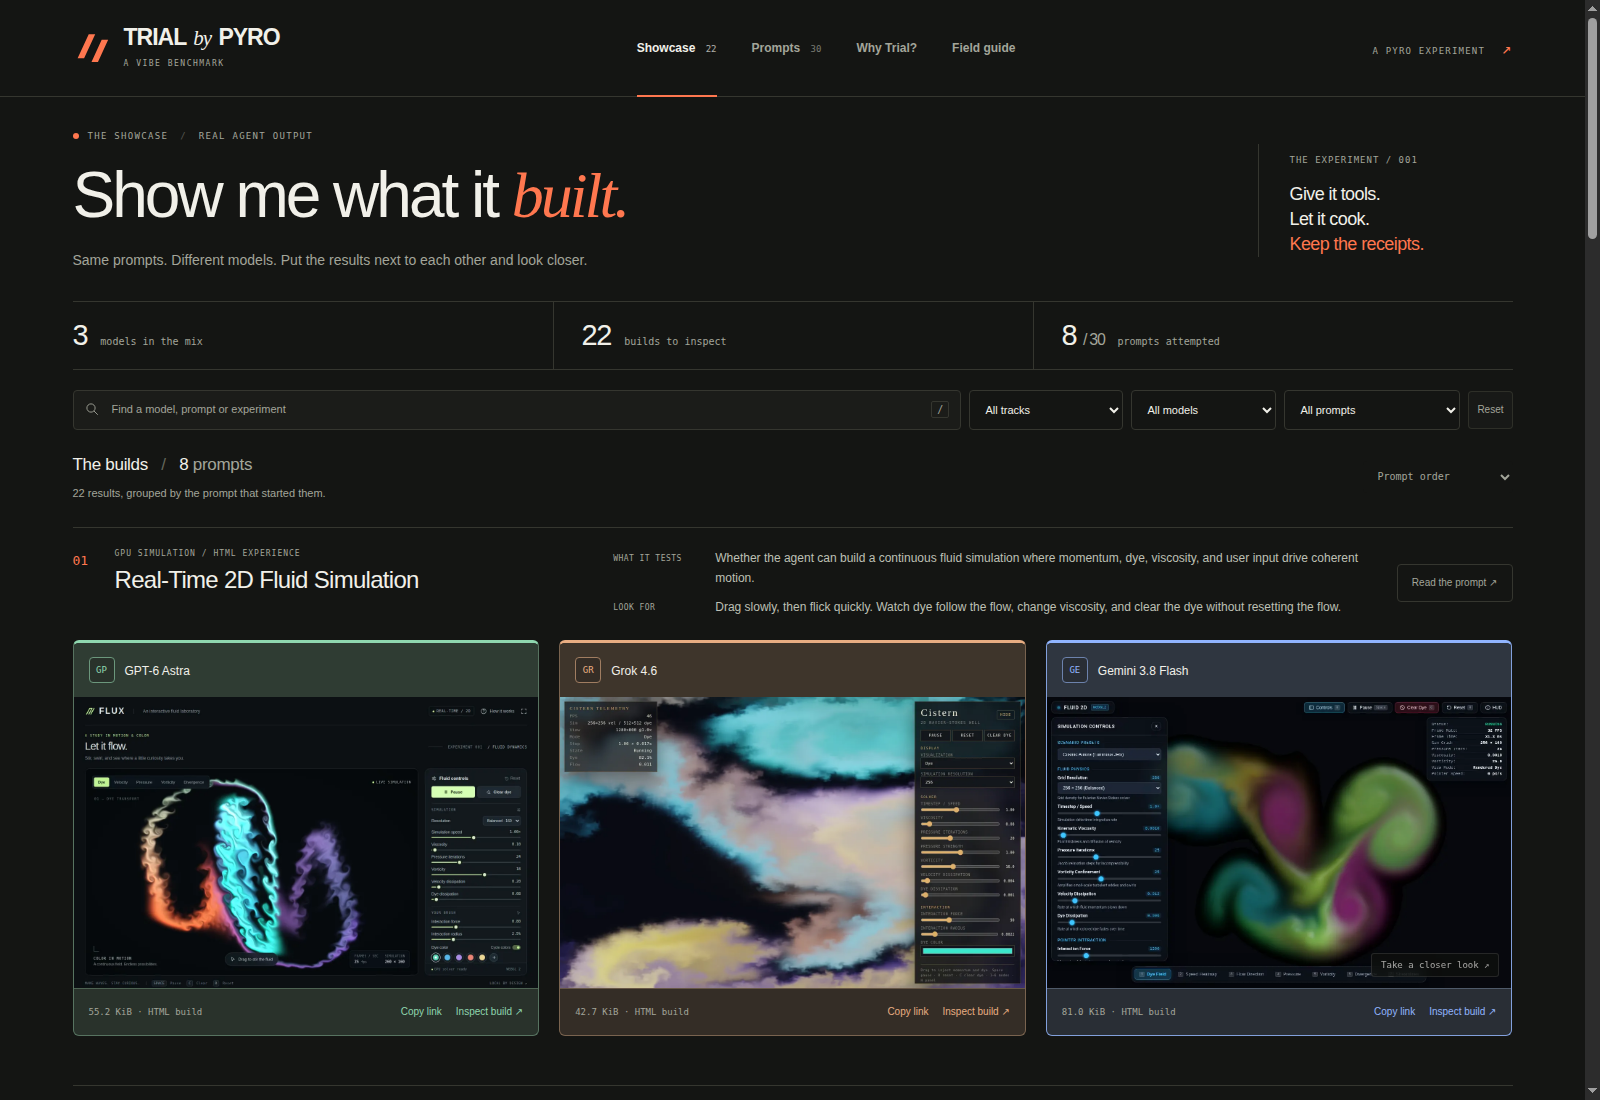
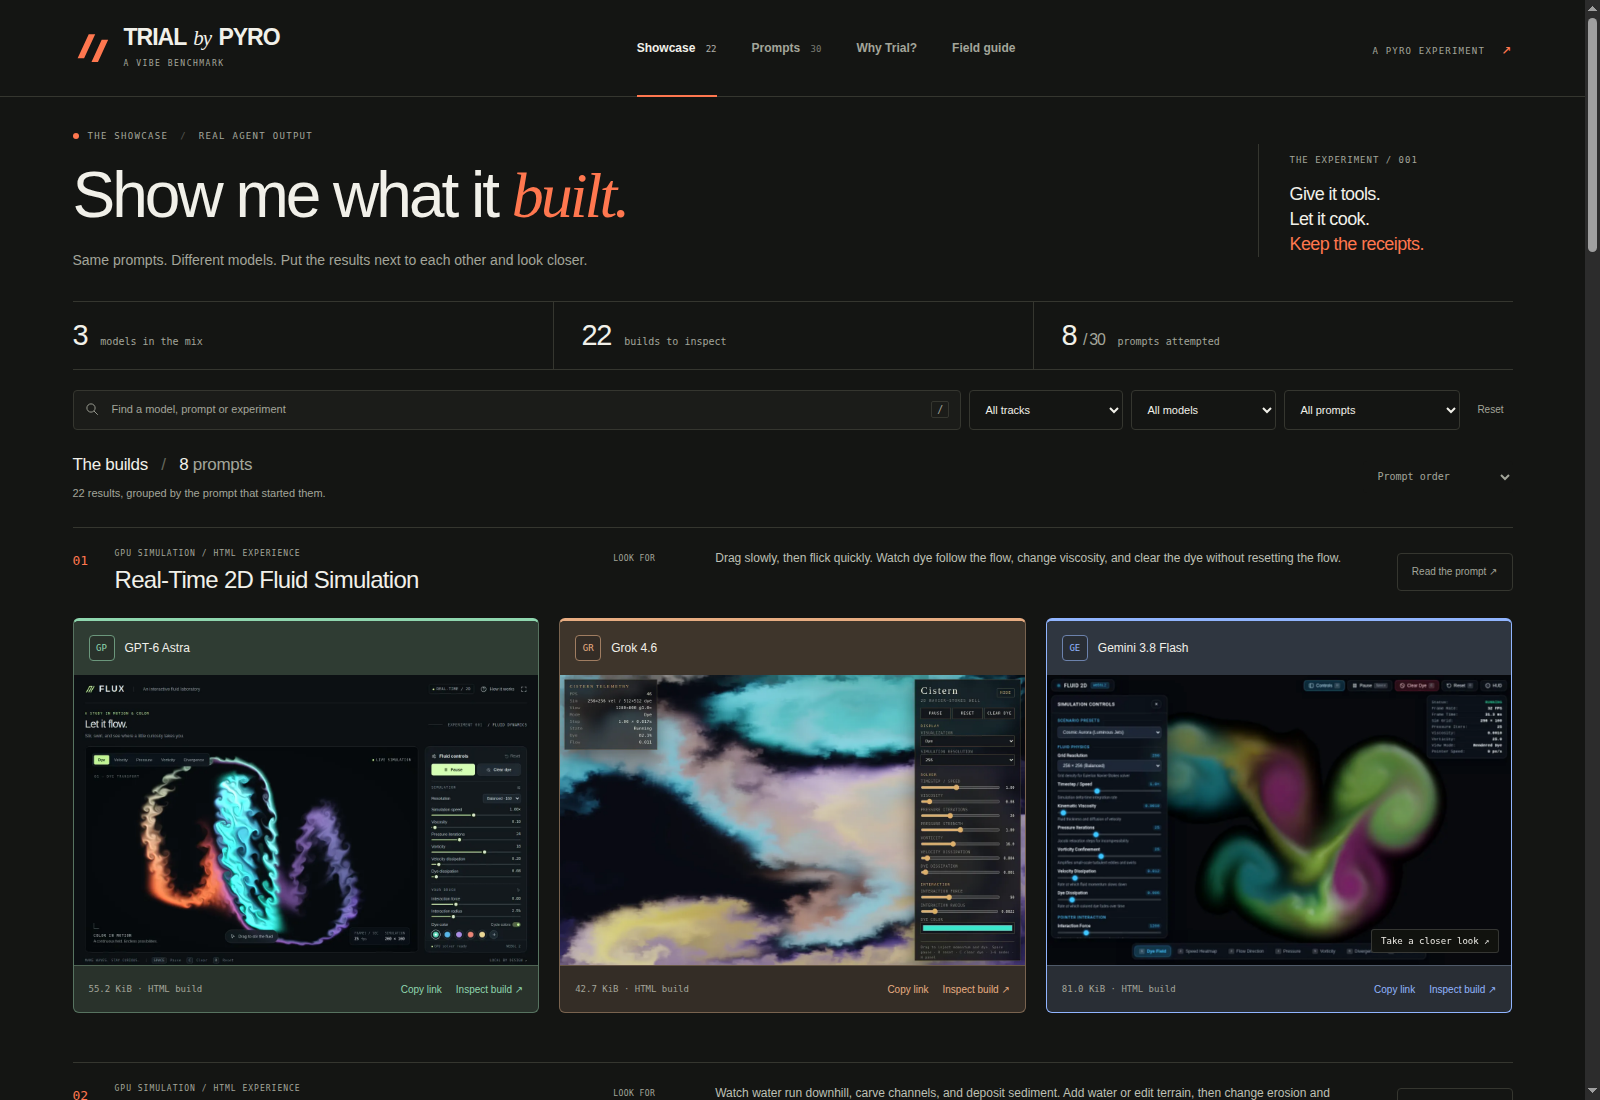
Keep prompt guidance focused on what to look for

diff --git a/gallery/static/app.js b/gallery/static/app.js
@@ -163,8 +163,8 @@
     });
     $('#cards').innerHTML=ordered.map(([key,runs])=>{
       const first=runs[0];const known=state.data.catalog.find(t=>t.id===key);
-      const guideFields=[['What it tests',known?.what_it_tests||known?.description],['Look for',known?.look_for]].filter(([,text])=>typeof text==='string'&&text.trim());
-      const guidance=guideFields.length?`<dl class="prompt-guide">${guideFields.map(([title,text])=>`<div><dt>${title}</dt><dd>${escape(text)}</dd></div>`).join('')}</dl>`:'';
+      const lookFor=known?.look_for;
+      const guidance=typeof lookFor==='string'&&lookFor.trim()?`<dl class="prompt-guide"><div><dt>Look for</dt><dd>${escape(lookFor)}</dd></div></dl>`:'';
       const comparisonModels=known?models:models.filter(model=>runs.some(row=>row.model_key===model.model_key));
       const columns=comparisonModels.map(model=>{
         const builds=runs.filter(r=>r.model_key===model.model_key);

diff --git a/tests/test_browser_single.py b/tests/test_browser_single.py
@@ -66,13 +66,12 @@ class BrowserTests(BrowserEnvironment):
         from playwright.sync_api import expect
         self.fixture()
         task = self.state.catalog_by_id['01-fluid-simulation']
-        task['what_it_tests'] = 'Fluid motion <img src=x onerror=alert(1)> & responsive controls.'
-        task['look_for'] = 'Drag through the dye. Does it curl around obstacles?'
+        task['look_for'] = 'Drag through the dye <img src=x onerror=alert(1)> & watch it curl around obstacles.'
         self.navigate_direct()
         group = self.page.locator('.prompt-group[data-task="01-fluid-simulation"]')
         guide = group.locator('.prompt-guide')
-        expect(guide.locator('dt')).to_have_text(['What it tests', 'Look for'])
-        expect(guide.locator('dd')).to_have_text([task['what_it_tests'], task['look_for']])
+        expect(guide.locator('dt')).to_have_text(['Look for'])
+        expect(guide.locator('dd')).to_have_text([task['look_for']])
         expect(guide.locator('img')).to_have_count(0)
         for width in (1440, 1024, 768, 390):
             self.page.set_viewport_size({'width': width, 'height': 1000})

diff --git a/tools/build_site.py b/tools/build_site.py
@@ -20,7 +20,7 @@ sys.path.insert(0, str(PACKAGE_ROOT))
 from gallery import server
 
 STATIC_FILES = ("index.html", "app.js", "appsettings.json", "styles.css", "favicon.svg", "logo-mark.svg", "deep-swe-snapshot.png")
-CATALOG_FIELDS = ("id", "title", "category", "icon", "description", "what_it_tests", "look_for", "track", "artifact_type", "rubric")
+CATALOG_FIELDS = ("id", "title", "category", "icon", "description", "look_for", "track", "artifact_type", "rubric")
 OWNER_MARKER = "public-static-export-v1\n"
 REDIRECTS = "/api/data /api/data.json 200\n/api/catalog /prompts/catalog.json 200\n/sources/* /artifacts/:splat 200\n"
 ARTIFACT_SANDBOX = "sandbox allow-scripts allow-downloads allow-modals allow-pointer-lock"

diff --git a/tests/test_static_export.py b/tests/test_static_export.py
@@ -133,7 +133,6 @@ class StaticExportTests(unittest.TestCase):
         catalog_path = self.root / "prompts/catalog.json"
         catalog = json.loads(catalog_path.read_text(encoding="utf-8"))
         guidance = {
-            "what_it_tests": "Fluid that responds to a brush, with working pressure and flow controls.",
             "look_for": "Drag through the dye. Does it curl around obstacles and settle after you stop?",
         }
         catalog[0].update(guidance)

diff --git a/docs/VERIFICATION.md b/docs/VERIFICATION.md
@@ -2,6 +2,12 @@
 
 These checks validate the package and gallery, not implementations or model performance on the thirty challenges.
 
+## Look for only: 2026-09-07
+
+Removed the What it tests copy and catalog field, keeping the practical Look for hints for all 30 prompts. Both focused guidance tests passed, covering browser layout at four widths, HTML escaping, and public export. JavaScript syntax and whitespace checks passed. Desktop and mobile showcase screenshots and the README comparison were refreshed.
+
+Production deployment `6a9f087dd6821a8284e32c5e` publishes **116 files totaling 3,661,003 bytes (3.49 MiB)**. Live checks confirmed exactly one Look for label in each of the eight displayed prompt groups, all 30 hints in the public catalog, no obsolete guidance field, and no horizontal page overflow at 390 pixels.
+
 ## Shared builds, prompt guidance, and Vibe Benchmark scope: 2026-09-07
 
 The complete WSL suite with both browser modes enabled passed **all 64 tests, with no skips**. Windows system Python passed **47 tests with 17 expected skips** for opt-in browser modes, optional Pillow, timezone data, and symlink permissions. JavaScript syntax validation and Git whitespace checks passed.

diff --git a/docs/DEPLOYMENT.md b/docs/DEPLOYMENT.md
@@ -106,7 +106,7 @@ Model keys and run labels come from folder names. Public model display labels, o
 
 The supplied reference image is explicitly included as `/deep-swe-snapshot.png` with its original bytes. It is independent of run screenshots and remains included when `--screenshots none` is selected.
 
-Public catalog entries include `what_it_tests` and `look_for` when present. These short descriptions power the guidance beside each showcase prompt; private catalog fields are still excluded.
+Public catalog entries include `look_for` when present. These short hints power the guidance beside each showcase prompt; private catalog fields are still excluded.
 
 Turn off **Project configuration > General > Powered by Netlify badge** for this showcase. Netlify can inject that badge into HTML responses at its edge, including submitted builds, which changes their downloaded hashes. The setting is already off for `trial-by-pyro.netlify.app`; check it when creating a different site. [Netlify documents the per-project setting and edge injection](https://docs.netlify.com/manage/projects/powered-by-netlify-badge/).
 

diff --git a/README.md b/README.md
@@ -54,7 +54,7 @@ Keep the benchmarks. Get your hands on the work.
 
 ## What you can do
 
-- **Compare the same brief.** Browse builds grouped by prompt, with each model's screenshots side by side. Each group explains what the task tests and what to look for when trying it. Filter by model, task, track, status, or text.
+- **Compare the same brief.** Browse builds grouped by prompt, with each model's screenshots side by side. Each group gives you concrete things to look for when trying the builds. Filter by model, task, track, status, or text.
 - **Try the output.** Run live HTML builds across the full viewport, or choose desktop, tablet, and mobile sizes. Download the source to inspect it yourself.
 - **Share a specific build.** Choose **Copy link** on a card or inside the viewer. The recipient lands directly in that model's maximized app.
 - **Run any of the 30 prompts.** Read and copy the complete task, including validation checks and delivery requirements, from the prompt library.

diff --git a/docs/CHANGELOG.md b/docs/CHANGELOG.md
@@ -3,7 +3,7 @@
 ## Trial by Pyro: 2026-09-07
 
 - Added Copy link controls on cards and in the viewer, with direct links that open a specific build maximized and support reload and browser history.
-- Added practical What it tests and Look for guidance to all 30 catalog entries, displayed beside showcase prompt titles and stacked below them on small screens.
+- Added practical Look for guidance to all 30 catalog entries, displayed beside showcase prompt titles and stacked below them on small screens.
 - Introduced the A Vibe Benchmark by Pyro subtitle and an explicit, informal scope statement in the README and Why Trial? view: personal exploration, not a scientific model ranking.
 - Added public appsettings.json configuration for model order, display names, and card colors, with Astra, Grok, and Gemini as the current order.
 - Tinted model cards, missing-build placeholders, and viewer labels consistently, with stable colors for unlisted models.

diff --git a/prompts/README.md b/prompts/README.md
@@ -8,7 +8,7 @@ Tasks 01–20 deliver `index.html`. Tasks 21–30 deliver `project/`. Each run m
 
 See `SELECTION_GUIDE.md` for task combinations. `catalog.json` is read by the gallery and importer.
 
-The catalog's optional `what_it_tests` and `look_for` fields provide the showcase's short reading cues. Edit those strings to change the guidance beside a prompt title, then restart the local gallery or rebuild the public site. They help visitors explore a build; the complete prompt and acceptance checks define the requirements.
+The catalog's optional `look_for` field provides the showcase's practical guidance. Edit that string to change the hints beside a prompt title, then restart the local gallery or rebuild the public site. These hints help visitors explore a build; the complete prompt and acceptance checks define the requirements.
 
 ## Choose a prompt
 
